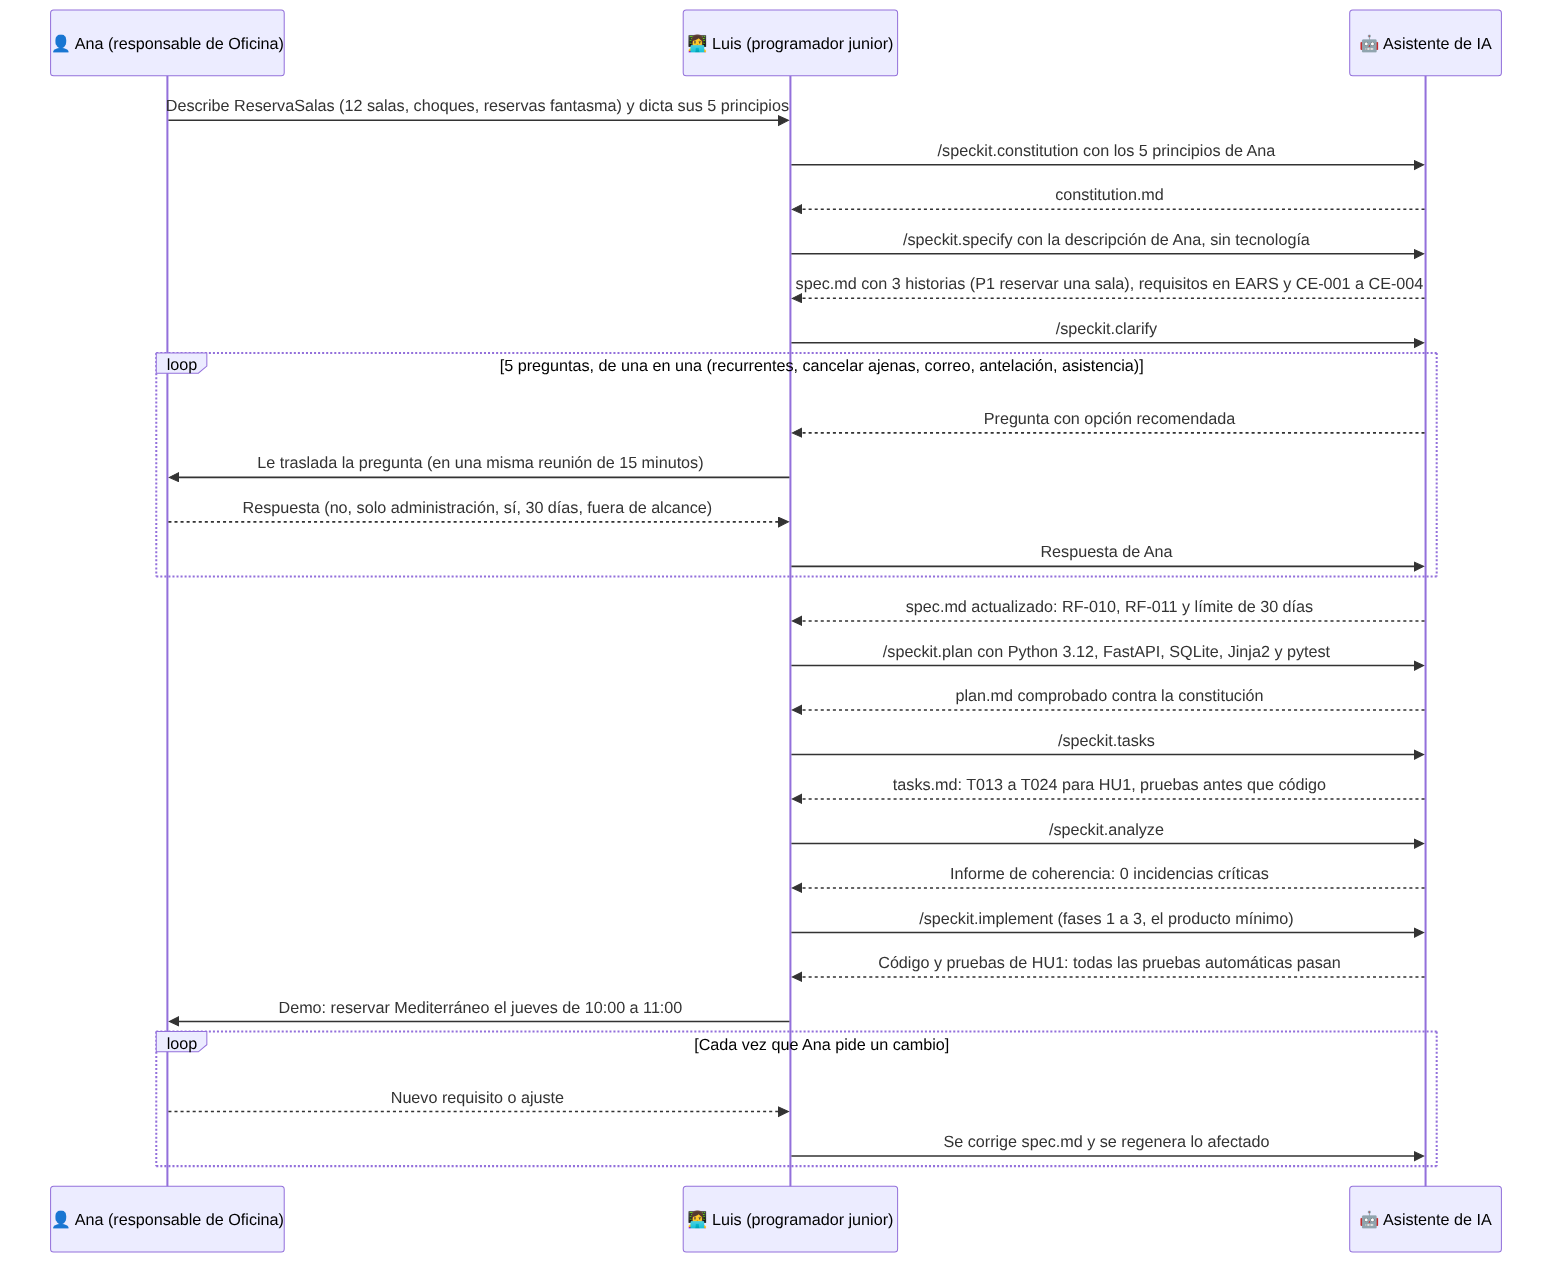
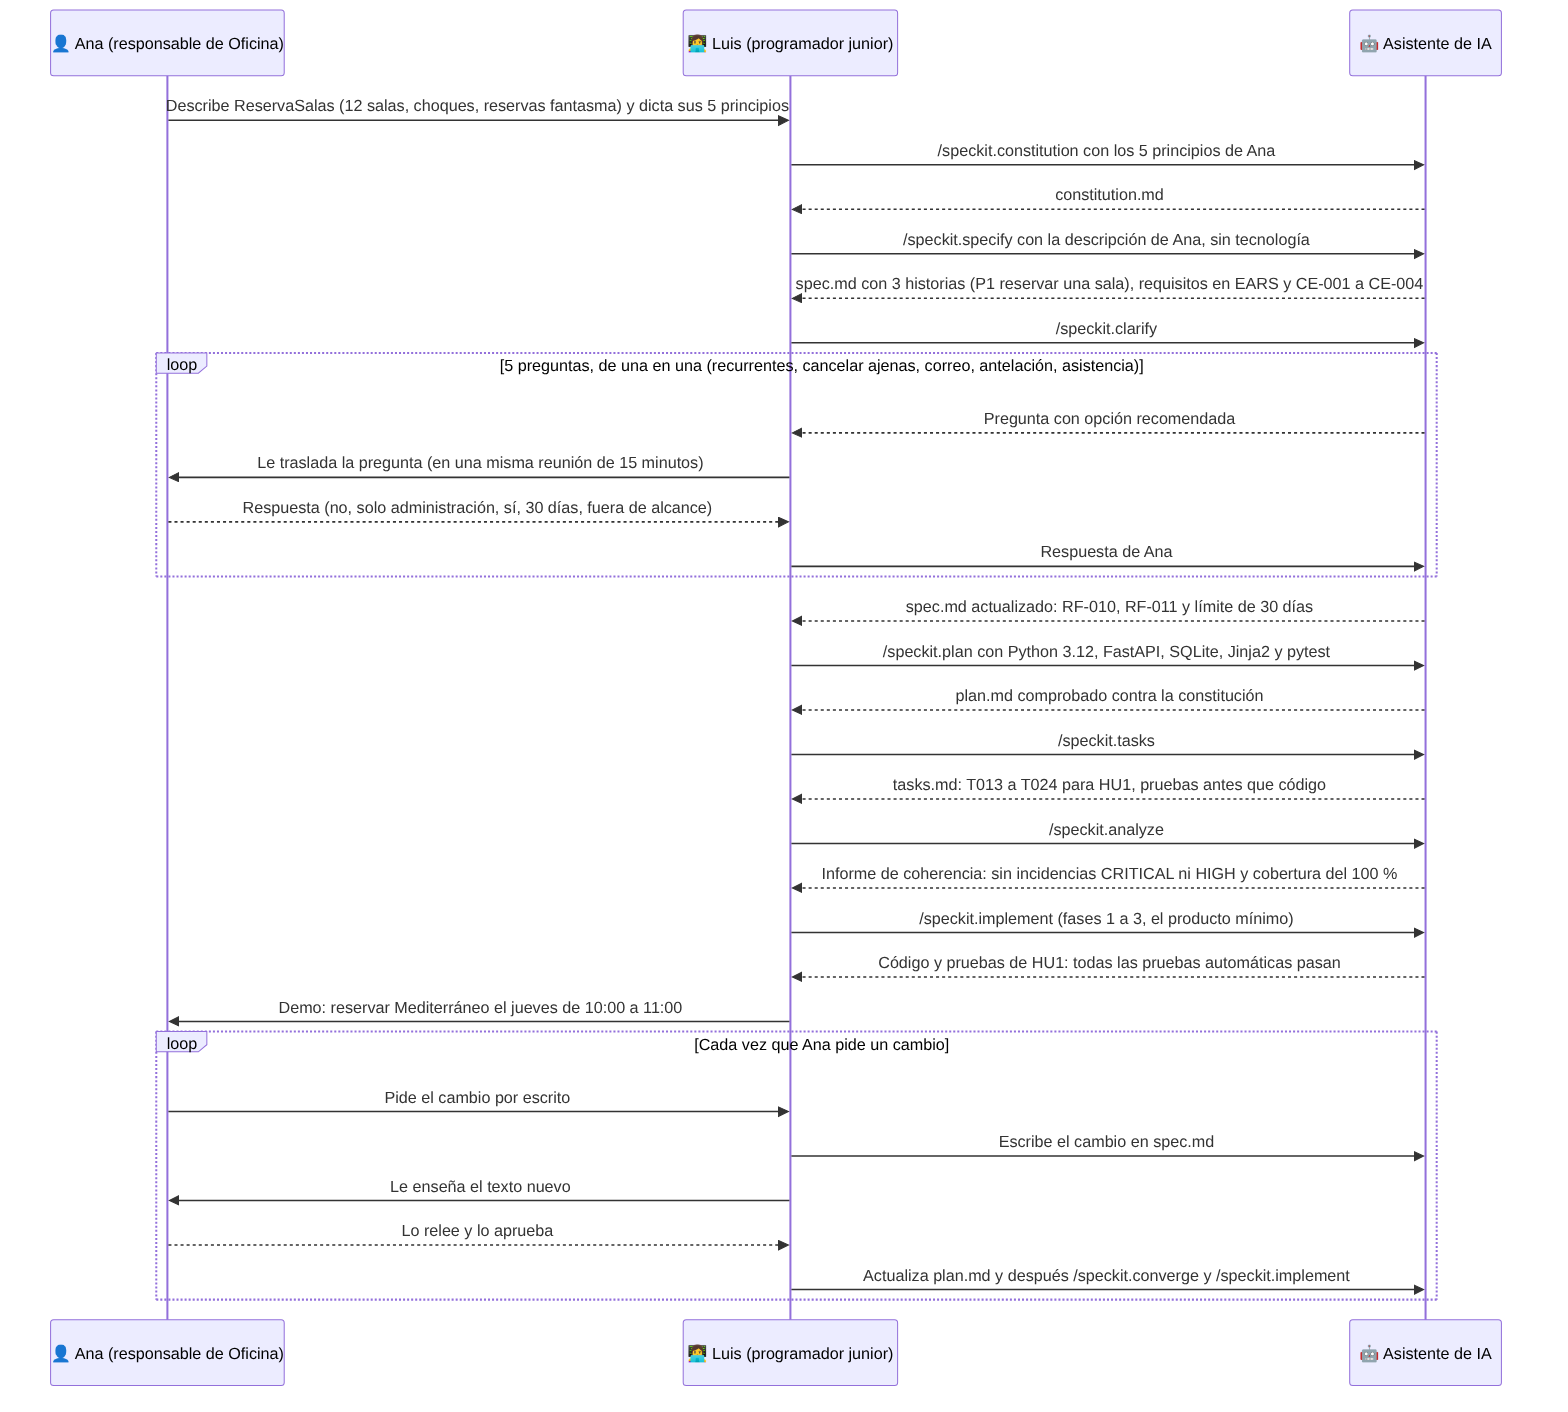
Versión final: diagramas regenerados y verificación completa
Diagrama de docs/08 alineado con cómo se regeneran las tareas tras un
cambio; los 17 diagramas exportados de nuevo a SVG y PNG con sus
índices. Comprobado: 51 ficheros, 1423 enlaces internos sin roturas,
35 diagramas Mermaid válidos y sin términos ni fuentes no permitidos.

Claude-Session: https://claude.ai/code/session_01JF6QyLFwdDdwsq6WpNV85e

diff --git a/diagramas/png/README.md b/diagramas/png/README.md
@@ -20,8 +20,8 @@ Se generan automáticamente a partir de los ficheros de [diagramas/](../README.m
 | [05-anatomia-de-un-requisito-ears-1.png](05-anatomia-de-un-requisito-ears-1.png) | [Anatomía de un requisito EARS](../05-anatomia-de-un-requisito-ears.md) | [Las piezas de un requisito](../05-anatomia-de-un-requisito-ears.md#las-piezas-de-un-requisito) |
 | [05-anatomia-de-un-requisito-ears-2.png](05-anatomia-de-un-requisito-ears-2.png) | [Anatomía de un requisito EARS](../05-anatomia-de-un-requisito-ears.md) | [¿Qué patrón EARS uso?](../05-anatomia-de-un-requisito-ears.md#qué-patrón-ears-uso) |
 | [06-mapa-del-repositorio-1.png](06-mapa-del-repositorio-1.png) | [Mapa del repositorio](../06-mapa-del-repositorio.md) | [El repositorio de un vistazo](../06-mapa-del-repositorio.md#el-repositorio-de-un-vistazo) |
-| [06-mapa-del-repositorio-2.png](06-mapa-del-repositorio-2.png) | [Mapa del repositorio](../06-mapa-del-repositorio.md) | [Manager o responsable de equipo (unas 2 horas)](../06-mapa-del-repositorio.md#manager-o-responsable-de-equipo-unas-2-horas) |
-| [06-mapa-del-repositorio-3.png](06-mapa-del-repositorio-3.png) | [Mapa del repositorio](../06-mapa-del-repositorio.md) | [RRHH y perfiles de negocio (unas 2 horas)](../06-mapa-del-repositorio.md#rrhh-y-perfiles-de-negocio-unas-2-horas) |
+| [06-mapa-del-repositorio-2.png](06-mapa-del-repositorio-2.png) | [Mapa del repositorio](../06-mapa-del-repositorio.md) | [Manager o responsable de equipo (unas 3 horas)](../06-mapa-del-repositorio.md#manager-o-responsable-de-equipo-unas-3-horas) |
+| [06-mapa-del-repositorio-3.png](06-mapa-del-repositorio-3.png) | [Mapa del repositorio](../06-mapa-del-repositorio.md) | [RRHH y perfiles de negocio (unas 3 horas)](../06-mapa-del-repositorio.md#rrhh-y-perfiles-de-negocio-unas-3-horas) |
 | [06-mapa-del-repositorio-4.png](06-mapa-del-repositorio-4.png) | [Mapa del repositorio](../06-mapa-del-repositorio.md) | [Programador junior (10-12 horas, en varios días)](../06-mapa-del-repositorio.md#programador-junior-10-12-horas-en-varios-días) |
 | [06-mapa-del-repositorio-5.png](06-mapa-del-repositorio-5.png) | [Mapa del repositorio](../06-mapa-del-repositorio.md) | [Programador con experiencia (6-8 horas)](../06-mapa-del-repositorio.md#programador-con-experiencia-6-8-horas) |
 | [06-mapa-del-repositorio-6.png](06-mapa-del-repositorio-6.png) | [Mapa del repositorio](../06-mapa-del-repositorio.md) | [Facilitador de la charla o del taller](../06-mapa-del-repositorio.md#facilitador-de-la-charla-o-del-taller) |

diff --git a/diagramas/svg/README.md b/diagramas/svg/README.md
@@ -20,8 +20,8 @@ Se generan automáticamente a partir de los ficheros de [diagramas/](../README.m
 | [05-anatomia-de-un-requisito-ears-1.svg](05-anatomia-de-un-requisito-ears-1.svg) | [Anatomía de un requisito EARS](../05-anatomia-de-un-requisito-ears.md) | [Las piezas de un requisito](../05-anatomia-de-un-requisito-ears.md#las-piezas-de-un-requisito) |
 | [05-anatomia-de-un-requisito-ears-2.svg](05-anatomia-de-un-requisito-ears-2.svg) | [Anatomía de un requisito EARS](../05-anatomia-de-un-requisito-ears.md) | [¿Qué patrón EARS uso?](../05-anatomia-de-un-requisito-ears.md#qué-patrón-ears-uso) |
 | [06-mapa-del-repositorio-1.svg](06-mapa-del-repositorio-1.svg) | [Mapa del repositorio](../06-mapa-del-repositorio.md) | [El repositorio de un vistazo](../06-mapa-del-repositorio.md#el-repositorio-de-un-vistazo) |
-| [06-mapa-del-repositorio-2.svg](06-mapa-del-repositorio-2.svg) | [Mapa del repositorio](../06-mapa-del-repositorio.md) | [Manager o responsable de equipo (unas 2 horas)](../06-mapa-del-repositorio.md#manager-o-responsable-de-equipo-unas-2-horas) |
-| [06-mapa-del-repositorio-3.svg](06-mapa-del-repositorio-3.svg) | [Mapa del repositorio](../06-mapa-del-repositorio.md) | [RRHH y perfiles de negocio (unas 2 horas)](../06-mapa-del-repositorio.md#rrhh-y-perfiles-de-negocio-unas-2-horas) |
+| [06-mapa-del-repositorio-2.svg](06-mapa-del-repositorio-2.svg) | [Mapa del repositorio](../06-mapa-del-repositorio.md) | [Manager o responsable de equipo (unas 3 horas)](../06-mapa-del-repositorio.md#manager-o-responsable-de-equipo-unas-3-horas) |
+| [06-mapa-del-repositorio-3.svg](06-mapa-del-repositorio-3.svg) | [Mapa del repositorio](../06-mapa-del-repositorio.md) | [RRHH y perfiles de negocio (unas 3 horas)](../06-mapa-del-repositorio.md#rrhh-y-perfiles-de-negocio-unas-3-horas) |
 | [06-mapa-del-repositorio-4.svg](06-mapa-del-repositorio-4.svg) | [Mapa del repositorio](../06-mapa-del-repositorio.md) | [Programador junior (10-12 horas, en varios días)](../06-mapa-del-repositorio.md#programador-junior-10-12-horas-en-varios-días) |
 | [06-mapa-del-repositorio-5.svg](06-mapa-del-repositorio-5.svg) | [Mapa del repositorio](../06-mapa-del-repositorio.md) | [Programador con experiencia (6-8 horas)](../06-mapa-del-repositorio.md#programador-con-experiencia-6-8-horas) |
 | [06-mapa-del-repositorio-6.svg](06-mapa-del-repositorio-6.svg) | [Mapa del repositorio](../06-mapa-del-repositorio.md) | [Facilitador de la charla o del taller](../06-mapa-del-repositorio.md#facilitador-de-la-charla-o-del-taller) |

diff --git a/docs/08-buenas-practicas-y-errores-comunes.md b/docs/08-buenas-practicas-y-errores-comunes.md
@@ -104,7 +104,7 @@ La pregunta más frecuente de quien empieza es «no funciona, ¿qué toco?». El
 flowchart TD
   F["Algo no funciona o no es lo que esperabas"]
   Q1["¿La especificación dice lo que de verdad quieres?"]
-  S["Corrige la especificación y regenera el plan, las tareas y el código afectados"]
+  S["Corrige la especificación, actualiza el plan y deja que converge añada las tareas que faltan"]
   Q2["¿El plan y las tareas cumplen la especificación y la constitución?"]
   P["Corrige el plan o las tareas y vuelve a implementar esa parte"]
   Q3["¿El código hace lo que dicen las tareas y pasan las pruebas?"]
@@ -124,7 +124,7 @@ flowchart TD
   class S,P,K,M accion;
 ```
 
-De arriba abajo: primero se mira la especificación; si no dice lo que quieres, se corrige y se regenera lo que dependa de ella. Si la especificación está bien, se mira si el plan y las tareas la cumplen; si no, se corrigen ellos y se vuelve a implementar esa parte. Si también están bien, se mira si el código hace lo que dicen las tareas: si no, es un fallo de implementación que el asistente corrige y una prueba nueva evita que vuelva. Y si todo cuadra y aun así falta algo, es que ese algo nunca se escribió: vuelve a la especificación.
+De arriba abajo: primero se mira la especificación; si no dice lo que quieres, se corrige (quien encarga aprueba el texto nuevo), se actualiza el plan y `/speckit.converge` añade las tareas que faltan, como en el paso 9 del [ejercicio 03](../ejercicios/03-reserva-salas-paso-a-paso.md). Si la especificación está bien, se mira si el plan y las tareas la cumplen; si no, se corrigen ellos y se vuelve a implementar esa parte. Si también están bien, se mira si el código hace lo que dicen las tareas: si no, es un fallo de implementación que el asistente corrige y una prueba nueva evita que vuelva. Y si todo cuadra y aun así falta algo, es que ese algo nunca se escribió: vuelve a la especificación.
 
 Fíjate en que el camino nunca termina en «edita el código a mano y sigue». Esa es la diferencia entre SDD y el parcheo a ciegas.
 
